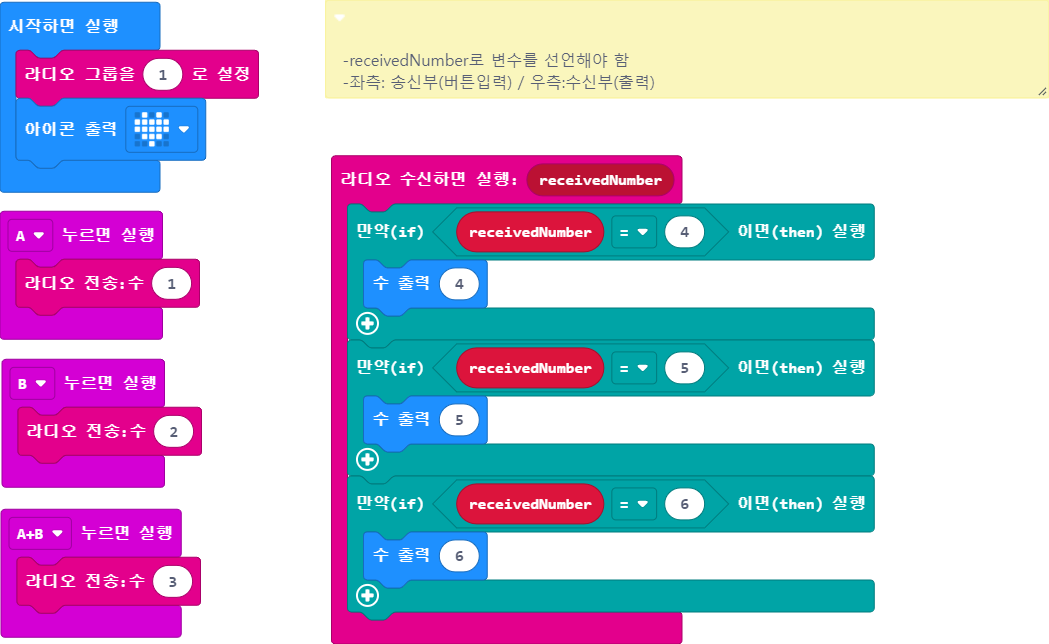
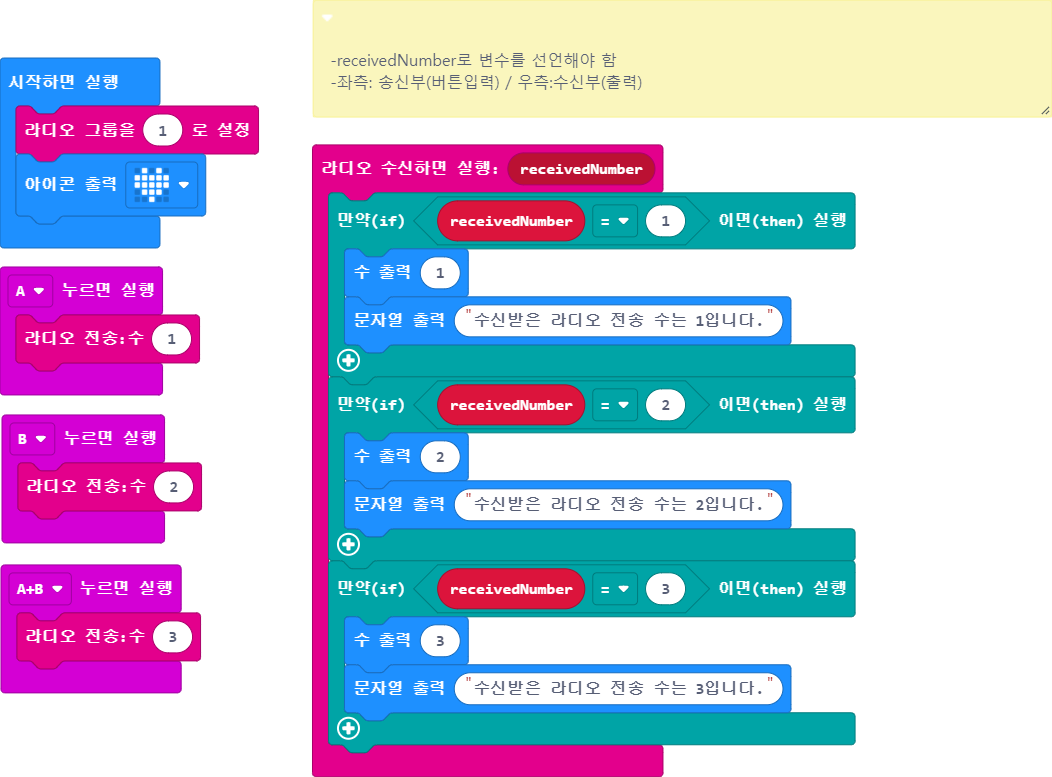
main.blocks, main.ts 업데이트하기

diff --git a/main.ts b/main.ts
@@ -4,14 +4,17 @@
  * -좌측: 송신부(버튼입력) / 우측:수신부(출력)
  */
 radio.onReceivedNumber(function (receivedNumber) {
-    if (receivedNumber == 4) {
-        basic.showNumber(4)
+    if (receivedNumber == 1) {
+        basic.showNumber(1)
+        basic.showString("수신받은 라디오 전송 수는 1입니다.")
     }
-    if (receivedNumber == 5) {
-        basic.showNumber(5)
+    if (receivedNumber == 2) {
+        basic.showNumber(2)
+        basic.showString("수신받은 라디오 전송 수는 2입니다.")
     }
-    if (receivedNumber == 6) {
-        basic.showNumber(6)
+    if (receivedNumber == 3) {
+        basic.showNumber(3)
+        basic.showString("수신받은 라디오 전송 수는 3입니다.")
     }
 })
 input.onButtonPressed(Button.A, function () {
